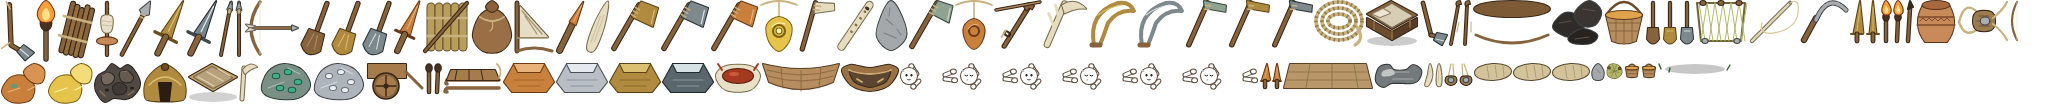
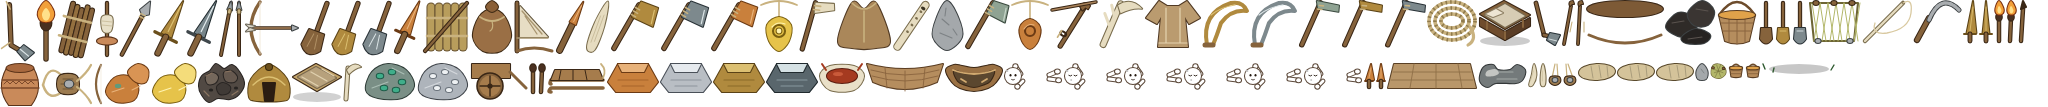
m15: craft and wear hide capes with sewn tunic layers

diff --git a/src/sim/__tests__/garment-recipes.test.ts b/src/sim/__tests__/garment-recipes.test.ts
@@ -1,0 +1,78 @@
+import { describe, expect, it, vi } from 'vitest';
+import { Brain } from '../ai/Brain.ts';
+import { Inventory } from '../entities/Item.ts';
+import { RECIPES, ingredientsFor, hasIngredients, missingIngredients } from '../entities/Recipe.ts';
+import { Simulation } from '../core/Simulation.ts';
+import { warmthFrom } from '../knowledge/Tech.ts';
+import { changeGarment } from '../core/ToolEquipment.ts';
+import { wornGarmentsOf } from '../../render/Renderer.ts';
+
+describe('hide cape and sewn tunic', () => {
+  it('crafts a layer for cold and stops demand when its worn slot is already warm enough', () => {
+    const sim = new Simulation({ seed: 'cape-demand', world: { width: 48, height: 48 },
+      population: { bands: 1, peoplePerBand: 2 } });
+    const person = sim.livingPeople()[0]!;
+    person.action = 'idle'; person.order = null;
+    person.knownTech.add('clothing');
+    person.needs.hunger = person.needs.thirst = person.needs.fatigue = person.needs.cold = 0;
+    for (const [item, count] of person.inventory.entries()) person.inventory.remove(item, count);
+    person.inventory.add('hide', 2); person.inventory.add('rope', 1); person.inventory.add('handaxe', 1);
+    const brain = (sim as unknown as { brain: Brain }).brain, score = brain.score.bind(brain);
+    let checked = false;
+    const spy = vi.spyOn(brain, 'score').mockImplementation((actor, ctx) => {
+      if (actor !== person || checked) return score(actor, ctx);
+      checked = true;
+      expect(score(actor, ctx).found.recipe).not.toBe('hide_cape');
+      person.needs.cold = 20;
+      expect(score(actor, ctx).found.recipe).toBe('hide_cape');
+      person.inventory.add('hide_cape', 1); person.equipment.cloak = { item: 'hide_cape', count: 1 };
+      expect(score(actor, ctx).found.recipe).not.toBe('hide_cape');
+      return score(actor, ctx);
+    });
+    try { for (let tick = 0; tick < 30 && !checked; tick++) sim.step(); expect(checked).toBe(true); }
+    finally { spy.mockRestore(); }
+  });
+
+  it('requires a cutting tool or needle through the shared recipe preflight', () => {
+    const inventory = new Inventory(); inventory.add('hide', 3); inventory.add('rope', 1);
+    inventory.add('sinew', 2);
+    expect(hasIngredients(inventory, RECIPES.hide_cape!)).toBe(false);
+    expect(missingIngredients(inventory, RECIPES.hide_cape!)).toContain('tool');
+    inventory.add('handaxe', 1);
+    expect(ingredientsFor(RECIPES.hide_cape!, inventory)).toEqual({ hide: 2, rope: 1 });
+    expect(hasIngredients(inventory, RECIPES.sewn_tunic!)).toBe(false);
+    inventory.add('needle', 1);
+    expect(ingredientsFor(RECIPES.sewn_tunic!, inventory)).toEqual({ hide: 3, sinew: 2 });
+  });
+
+  it('crafts a tunic while retaining its needle and consumes the material load once', () => {
+    const sim = new Simulation({ seed: 'tunic-craft', world: { width: 48, height: 48 },
+      population: { bands: 1, peoplePerBand: 2 } });
+    sim.possessFirst(); const person = sim.player!;
+    person.knownTech.add('tailoring'); person.skills.build = 100;
+    for (const [item, count] of person.inventory.entries()) person.inventory.remove(item, count);
+    person.inventory.add('hide', 3); person.inventory.add('sinew', 2); person.inventory.add('needle', 1);
+    person.needs.cold = person.needs.fatigue = 0;
+    expect(sim.order(person, 'craft', { recipeId: 'sewn_tunic' })).toBe(true);
+    for (let tick = 0; tick < 1000 && person.inventory.count('sewn_tunic') === 0; tick++) {
+      person.needs.hunger = person.needs.thirst = 0; sim.step();
+    }
+    expect(person.inventory.count('sewn_tunic')).toBe(1);
+    expect(person.inventory.count('needle')).toBe(1);
+    expect(person.inventory.count('hide')).toBe(0);
+    expect(person.inventory.count('sinew')).toBe(0);
+  });
+
+  it('combines a cloak and torso layer only when actually worn and draws their layers', () => {
+    const person = new Simulation({ seed: 'cape-layers', world: { width: 48, height: 48 },
+      population: { bands: 1, peoplePerBand: 2 } }).livingPeople()[0]!;
+    person.inventory.add('hide_cape', 1); person.inventory.add('sewn_tunic', 1);
+    expect(warmthFrom(person)).toBe(0); expect(wornGarmentsOf(person)).toEqual({ torso: undefined, cloak: undefined });
+    expect(changeGarment(person, 'hide_cape', 'wear_garment')).toBeNull();
+    expect(changeGarment(person, 'sewn_tunic', 'wear_garment')).toBeNull();
+    expect(warmthFrom(person)).toBeCloseTo(1 - 0.75 * 0.70);
+    expect(wornGarmentsOf(person)).toEqual({ torso: 'tunic', cloak: 'cloak' });
+    person.inventory.remove('hide_cape', 1);
+    expect(wornGarmentsOf(person).cloak).toBeUndefined();
+  });
+});

diff --git a/src/sim/entities/Recipe.ts b/src/sim/entities/Recipe.ts
@@ -54,6 +54,8 @@ export interface RecipeDef {
   ingredients: Record<string, number>;
   /** Alternative ingredient loads for one output, tried in declaration order. */
   ingredientOptions?: Record<string, number>[];
+  /** One of these owned tools is required and retained after work completes. */
+  toolOptions?: string[];
   output: Record<string, number>;
   /**
    * A `BUILDINGS` id this must be made at, or undefined for anywhere.
@@ -774,6 +776,12 @@ export const RECIPES: Record<string, RecipeDef> = {
     id: 'fat_torch', label: 'Fat torch', icon: '\u{1F525}', tech: 'firemaking', skill: 'build',
     workTicks: 60, ingredients: { sticks: 1, fat: 1 }, output: { fat_torch: 1 }, keep: 1,
   },
+  hide_cape: { id: 'hide_cape', label: 'Hide cape', icon: '🧥', tech: 'clothing', skill: 'build',
+    workTicks: 100, ingredients: { hide: 2, rope: 1 }, toolOptions: ['flint', 'handaxe'],
+    output: { hide_cape: 1 }, keep: 1 },
+  sewn_tunic: { id: 'sewn_tunic', label: 'Sewn tunic', icon: '👕', tech: 'tailoring', skill: 'build',
+    workTicks: 130, ingredients: { hide: 3, sinew: 2 }, toolOptions: ['needle'],
+    output: { sewn_tunic: 1 }, keep: 1 },
 };
 
 /** Every item any recipe can produce. Used by the "is this reachable?" tests. */
@@ -851,6 +859,7 @@ export function recipeTechPower(person: Person, recipe: RecipeDef): number {
 
 /** Resolve one complete load, preferring the recipe's primary ingredients. */
 export function ingredientsFor(recipe: RecipeDef, inventory: Inventory): Record<string, number> | null {
+  if (recipe.toolOptions && !recipe.toolOptions.some(item => inventory.count(item) >= 1)) return null;
   for (const ingredients of [recipe.ingredients, ...(recipe.ingredientOptions ?? [])]) {
     if (Object.entries(ingredients).every(([itemId, count]) => inventory.count(itemId) >= count)) return ingredients;
   }
@@ -865,6 +874,9 @@ export function ingredientsFor(recipe: RecipeDef, inventory: Inventory): Record<
  * fourth hand-written copy of a recipe's contents.
  */
 export function missingIngredients(inventory: Inventory, recipe: RecipeDef): string {
+  if (recipe.toolOptions && !recipe.toolOptions.some(item => inventory.count(item) >= 1)) {
+    return t('You need a tool: {tools}', { tools: recipe.toolOptions.map(item => t(ITEMS[item]!.label)).join(' / ') });
+  }
   if (recipe.ingredientOptions?.some(option => Object.entries(option)
     .every(([itemId, count]) => inventory.count(itemId) >= count))) return '';
   const format = (ingredients: Record<string, number>): string[] => Object.entries(ingredients)

diff --git a/e2e/garment-layers.spec.ts b/e2e/garment-layers.spec.ts
@@ -1,0 +1,42 @@
+import { mkdirSync } from 'node:fs';
+import { test, expect } from '@playwright/test';
+
+test('a hide cape and sewn tunic can be worn together from the Kit', async ({ page }) => {
+  const errors: string[] = []; page.on('pageerror', error => errors.push(error.message));
+  await page.goto('/?seed=e2e-garment-layers&skipIntro=1&defaults=1&lang=es');
+  await expect(page.locator('.hud-clock')).not.toBeEmpty({ timeout: 15_000 });
+  await page.locator('.hud-button', { hasText: 'Pausa' }).click();
+  await page.waitForFunction(() => !!(window as any).__dynasty?.renderer?.art);
+  await page.evaluate(() => {
+    const d = (window as any).__dynasty, p = d.sim.player;
+    p.age = 30 * p.daysPerYear; p.inventory.add('hide_cape', 1); p.inventory.add('sewn_tunic', 1);
+    p.needs.hunger = p.needs.thirst = p.needs.cold = p.needs.fatigue = 0;
+    d.camera.zoom = 7.5; d.camera.snapTo(p.x, p.y); d.camera.following = false;
+    d.renderer.fogEnabled = false; d.renderer.interpolator.clear();
+  });
+  await page.locator('.hud-tab[data-tab="kit"]').click();
+  for (const item of ['sewn_tunic', 'hide_cape']) {
+    const wear = page.locator(`.hud-item-verbs [data-item="${item}"][data-verb="wear_garment"]`);
+    await expect(wear).toBeVisible(); await wear.click();
+    await page.evaluate(() => {
+      const d = (window as any).__dynasty;
+      for (let tick = 0; tick < d.sim.config.carry.equipTicks + 2; tick++) d.sim.step();
+      d.renderer.render(null, 0);
+    });
+    await page.locator('.hud-tab[data-tab="self"]').click();
+    await page.locator('.hud-tab[data-tab="kit"]').click();
+  }
+  const worn = await page.evaluate(async () => {
+    const d = (window as any).__dynasty, path = '/src/sim/knowledge/Tech.ts';
+    const { warmthFrom } = await import(/* @vite-ignore */ path);
+    return { torso: d.sim.player.equipment.torso?.item, cloak: d.sim.player.equipment.cloak?.item,
+      warmth: warmthFrom(d.sim.player) };
+  });
+  expect(worn).toEqual({ torso: 'sewn_tunic', cloak: 'hide_cape', warmth: 1 - 0.7 * 0.75 });
+  await expect(page.locator('.hud-panel')).toContainText('Túnica cosida');
+  await expect(page.locator('.hud-panel')).toContainText('Capa de piel');
+  const shots = process.env.DYNASTY_CAPTURE_DIR ?? 'artifacts/screenshots/m15-phase14c-layers-2026-10-10';
+  mkdirSync(shots, { recursive: true });
+  await page.screenshot({ path: `${shots}/01-tunica-y-capa.png` });
+  expect(errors).toEqual([]);
+});

diff --git a/src/sim/ai/Brain.ts b/src/sim/ai/Brain.ts
@@ -3672,8 +3672,16 @@ export class Brain {
       // day would turn the recipe's keep target into a permanent material tax.
       const wantsTorch = person.inventory.count('torch') + person.inventory.count('fat_torch') < 1 &&
         (ctx.time.daylight < 0.35 || person.needs.cold > 10 && person.beliefs.expect('warm:torch').value > 0);
+      const garment = ITEMS[output]?.garment;
+      const worn = garment ? person.equipment[garment.slot] : undefined;
+      const currentWarmth = worn && person.inventory.count(worn.item) >= 1
+        ? ITEMS[worn.item]?.garment?.warmth ?? 0 : 0;
+      // Making every layer merely because keep=1 creates a permanent summer
+      // tax. A garment must answer cold and improve its actual worn slot.
+      const wantsGarment = garment && person.needs.cold > 10 && garment.warmth > currentWarmth &&
+        person.inventory.count(output) < recipe.keep;
       const forSelf = ITEMS[output]?.furniture ? recipe.id === furnitureRecipe :
-        isTorchRecipe ? wantsTorch : person.inventory.count(output) < recipe.keep;
+        garment ? wantsGarment : isTorchRecipe ? wantsTorch : person.inventory.count(output) < recipe.keep;
       const forSite = site !== null && site.stillNeeds(output) > 0;
       if (!forSelf && !forSite) continue;
 

diff --git a/art/src/props/items.ts b/art/src/props/items.ts
@@ -6,6 +6,12 @@ export type ItemArt = [id: string, label: string, tech: string, draw: () => stri
 export const WOOD = '#86633c', WOOD_D = '#3a2716', STONE = '#a9adb0', STONE_D = '#3d4244', BONE = '#e6dcc0', BONE_D = '#7a6d4e', CORD = '#c9b27f';
 const rot = (inner: string, deg: number, cx = 32, cy = 32): string => `<g transform="rotate(${deg} ${cx} ${cy})">${inner}</g>`;
 export const ITEMS: ItemArt[] = [
+  ['hide_cape', 'Capa de piel', 'clothing', () =>
+    shape(smooth([[20, 10], [32, 16], [44, 10], [58, 48], [44, 55], [20, 55], [6, 48]]), '#aa875a', '#513a24')
+    + stroke('M20,10Q32,22 44,10M32,18L32,49', CORD, 1.6)],
+  ['sewn_tunic', 'Túnica cosida', 'tailoring', () =>
+    shape(poly([[18, 9], [26, 14], [38, 14], [46, 9], [59, 26], [48, 32], [44, 25], [47, 55], [17, 55], [20, 25], [16, 32], [5, 26]]), '#ba9b6f', '#513a24')
+    + stroke('M25,16L25,51M39,16L39,51M18,51L46,51', '#e5d4b0', 1.2)],
   ['bedding', 'Lecho', 'cordage', () =>
     ell(32, 51, 24, 5, 'rgba(0,0,0,0.18)')
     + shape(poly([[8, 31], [31, 18], [56, 31], [32, 45]]), '#c2a36a', WOOD_D)

diff --git a/src/render/Renderer.ts b/src/render/Renderer.ts
@@ -60,9 +60,11 @@ export function wornGarmentsOf(person: Person): PersonAspect['wear'] {
   const torsoId = person.equipment.torso?.item;
   const torsoDef = torsoId ? ITEMS[torsoId]?.garment : undefined;
   const torso = torsoDef?.slot === 'torso' && torsoId && person.inventory.count(torsoId) > 0 &&
-    (torsoId === 'fur_coat' || torsoId === 'hide_armour')
-    ? torsoId : undefined;
-  return { torso };
+    (torsoId === 'fur_coat' || torsoId === 'hide_armour' || torsoId === 'sewn_tunic')
+    ? torsoId === 'sewn_tunic' ? 'tunic' : torsoId : undefined;
+  const cloak = person.equipment.cloak?.item === 'hide_cape' && person.inventory.count('hide_cape') >= 1
+    ? 'cloak' as const : undefined;
+  return { torso, cloak };
 }
 
 const BIOME_COLORS: Record<Biome, [string, string]> = {

diff --git a/src/sim/entities/Item.ts b/src/sim/entities/Item.ts
@@ -458,6 +458,10 @@ export const ITEMS: Record<string, ItemDef> = {
     class: 'small', hand: { perHand: 1, perArms: 1, hands: 1 } },
   fat_torch: { id: 'fat_torch', label: 'Fat torch', nutrition: 0, spoilTicks: 0, baseValue: 8,
     class: 'small', hand: { perHand: 1, perArms: 1, hands: 1 } },
+  hide_cape: { id: 'hide_cape', label: 'Hide cape', nutrition: 0, spoilTicks: 0, baseValue: 6,
+    class: 'small', hand: { perHand: 1, perArms: 1, hands: 1 }, garment: { slot: 'cloak', warmth: 0.25 } },
+  sewn_tunic: { id: 'sewn_tunic', label: 'Sewn tunic', nutrition: 0, spoilTicks: 0, baseValue: 9,
+    class: 'small', hand: { perHand: 1, perArms: 1, hands: 1 }, garment: { slot: 'torso', warmth: 0.30 } },
 };
 
 export class Inventory {

diff --git a/src/i18n/es/actions.ts b/src/i18n/es/actions.ts
@@ -1,5 +1,6 @@
 /** Spanish for actions. Keys are the English templates; see `i18n.ts`. */
 export const ES_ACTIONS: Record<string, string> = {
+  'You need a tool: {tools}': 'Necesitas una herramienta: {tools}',
   "You no longer have that item": "Ya no tienes ese objeto",
   "That is not something you can equip": "No puedes equiparte ese objeto",
   "That item does not fit there": "Ese objeto no cabe ahí",

diff --git a/src/i18n/es/hud.ts b/src/i18n/es/hud.ts
@@ -252,6 +252,12 @@ export const ES_HUD: Record<string, string> = {
   "slot|back": "espalda",
   "slot|belt": "cinturón",
   "slot|shoulder": "hombro",
+  "slot|hips": "caderas",
+  "slot|torso": "torso",
+  "slot|legs": "piernas",
+  "slot|feet": "pies",
+  "slot|head": "cabeza",
+  "slot|cloak": "capa",
   "bar|health": "salud",
   "bar|hunger": "hambre",
   "bar|thirst": "sed",

diff --git a/src/i18n/es/data.ts b/src/i18n/es/data.ts
@@ -13,6 +13,8 @@ export const ES_DATA: Record<string, string> = {
   "Fat": "Grasa",
   "Torch": "Antorcha",
   "Fat torch": "Antorcha de grasa",
+  "Hide cape": "Capa de piel",
+  "Sewn tunic": "Túnica cosida",
   "Fish": "Pescado",
   "Hide": "Piel",
   "Spear": "Lanza",

diff --git a/docs/m15_phase14c_first_layers.md b/docs/m15_phase14c_first_layers.md
@@ -1,0 +1,33 @@
+# M15 phase14c: first clothing recipes
+
+Hide cape: cloak slot, warmth0.25, clothing, two hide and one rope; a flint or
+hand axe is required and retained. Sewn tunic: torso, warmth0.30, tailoring,
+three hide and two sinew; a bone needle is required and retained. The shared
+recipe resolver includes tool availability, so menus, scorer and final craft
+revalidation agree without consuming the cutting/sewing tool.
+
+Both are ordinary worn garment references. They stack through existing
+warmthFrom, stay cold in inventory and disappear visually when ownership is
+lost. The generated rig already supplies cloak front/back and tunic/sleeves;
+Renderer maps these observed worn items to those layers. New inventory icons
+are generated from art/src/props/items.ts. Spanish names and all six garment
+slot labels are supplied. No private inventory is shown as public appearance.
+
+Garment crafting answers present cold and improves its worn slot. A full slot
+or an already owned copy stops the keep loop, avoiding permanent summer craft
+demand. This uses the current thermal utility; learning/observing garment
+warmth expectations remains a later14c reader, together with the remaining
+catalogue, pockets, deterioration, dressing and repair. This is not full14c.
+
+## Verification
+
+Four garment recipe tests pass, including actual craft retaining its needle,
+layer composition and cold-demand suppression. Focal garment/clothing/i18n/art
+run passed43 tests before adding the fourth recipe test. Typecheck passes.
+Single-seed health: initial named failures cravings-steer-the-diet/perf-budget
+remain. No cohort or survival improvement claim.
+
+The Spanish browser case clicks both wear actions in Equipo, checks combined
+warmth0.475 and records artifacts/screenshots/m15-phase14c-layers-2026-10-10-final/01-tunica-y-capa.png.
+It reported ok in14.5s; Vite teardown remained open and was interrupted, so
+this is not a clean global E2E exit.

diff --git a/docs/bugs.md b/docs/bugs.md
@@ -4687,3 +4687,14 @@ tras30 días en start-place. No se atribuyen al cambio de calor local, pero no
 se ha demostrado que existieran antes de este conjunto de trabajo M15.
 Comparación fija: artifacts/m15-12d-regression-comparison.log. Investigación y
 calibración pendientes para M16; no se ha relajado ningún umbral para dar verde.
+
+### 2026-10-10 — suite global sobre índice fijo28
+Resultado real:263 archivos,250 correctos y13 fallidos;1940 pruebas correctas,
+22 fallidas y1 omitida. Log artifacts/m15-full-unit-28.log. Además de los cinco
+fallos focales ya listados: difusión tecnológica0.68>0.6, correspondencia
+compacta (necesidades), id-space (espera crecimiento de población), cinco
+fixtures iron-tools que exigen cuatro adultos pero no los obtienen, y dos
+proyecciones rival-house-view con más nombres conocidos que su premisa.
+Cuatro pruebas de daño llevan armadura solo en inventory (premisa anterior14b);
+dos water-model esperan versiones1/2 aunque16b exporta3; i18n faltaba una
+traducción de carbón (corregida124c410). No se presenta esta suite como verde.
